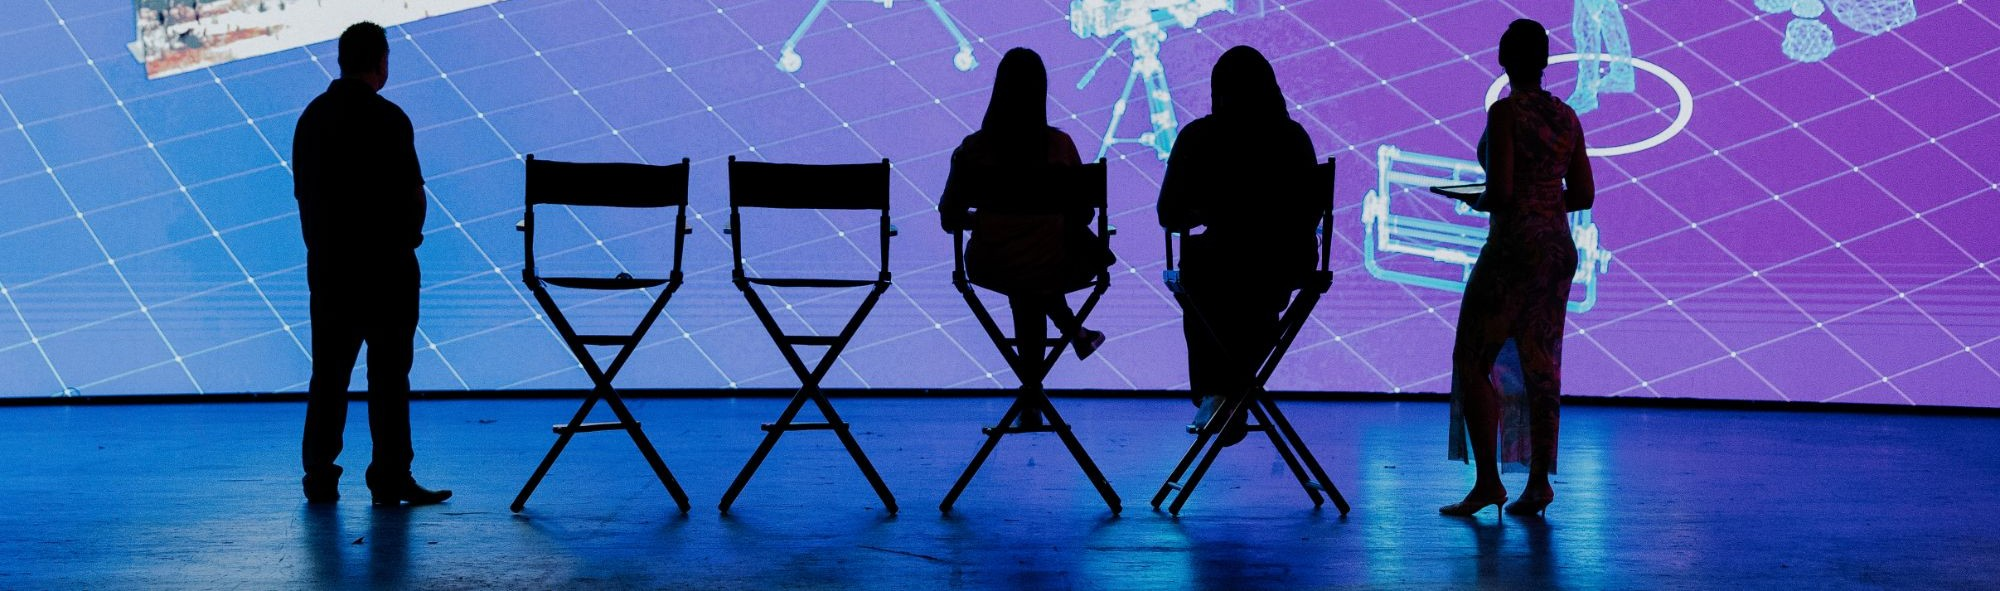
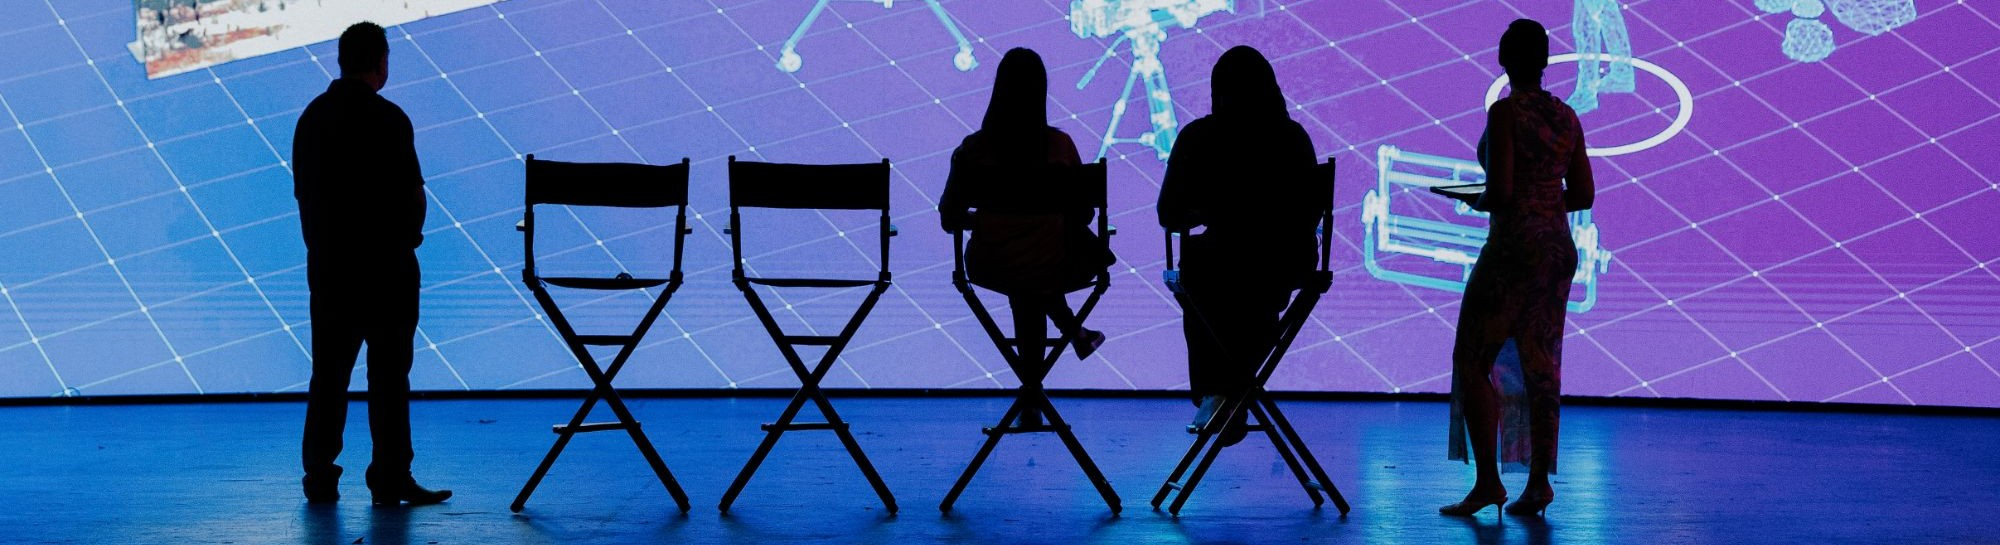
Trim excess floor from footer stage strip
Crop the bottom ~46px of empty stage floor while keeping all feet, heels,
and chair-leg tips intact. Height 591 -> 545; update <img> height attr.

Claude-Session: https://claude.ai/code/session_01FEjmKaxiwjKdYgFvJ56WtP

diff --git a/index.html b/index.html
@@ -408,7 +408,7 @@
     <!-- ============ FOOTER ============ -->
     <footer class="footer">
       <div class="footer__strip">
-        <img src="img/footer-stage.jpg" width="2000" height="591" loading="lazy"
+        <img src="img/footer-stage.jpg" width="2000" height="545" loading="lazy"
              alt="Ashley Nicole Singleton hosting a panel in silhouette on a virtual production stage" />
       </div>
       <div class="footer__row">
